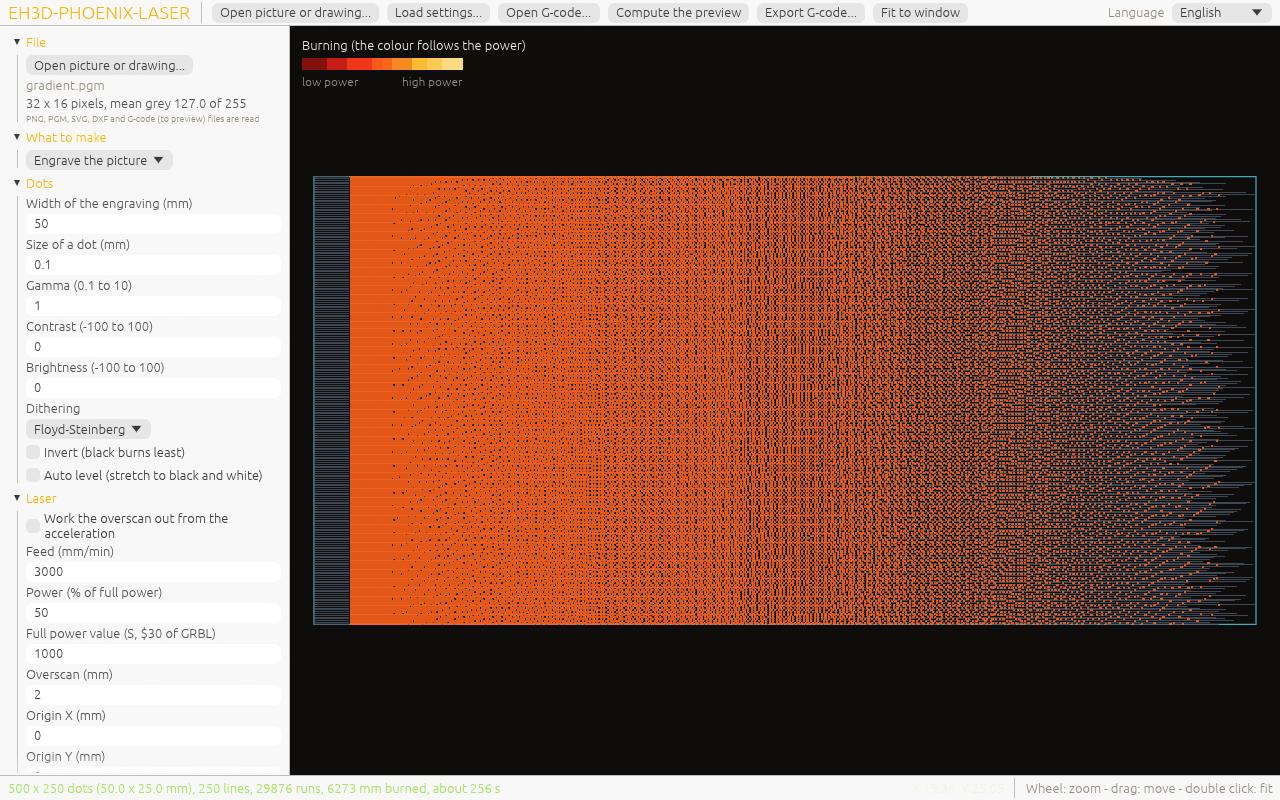
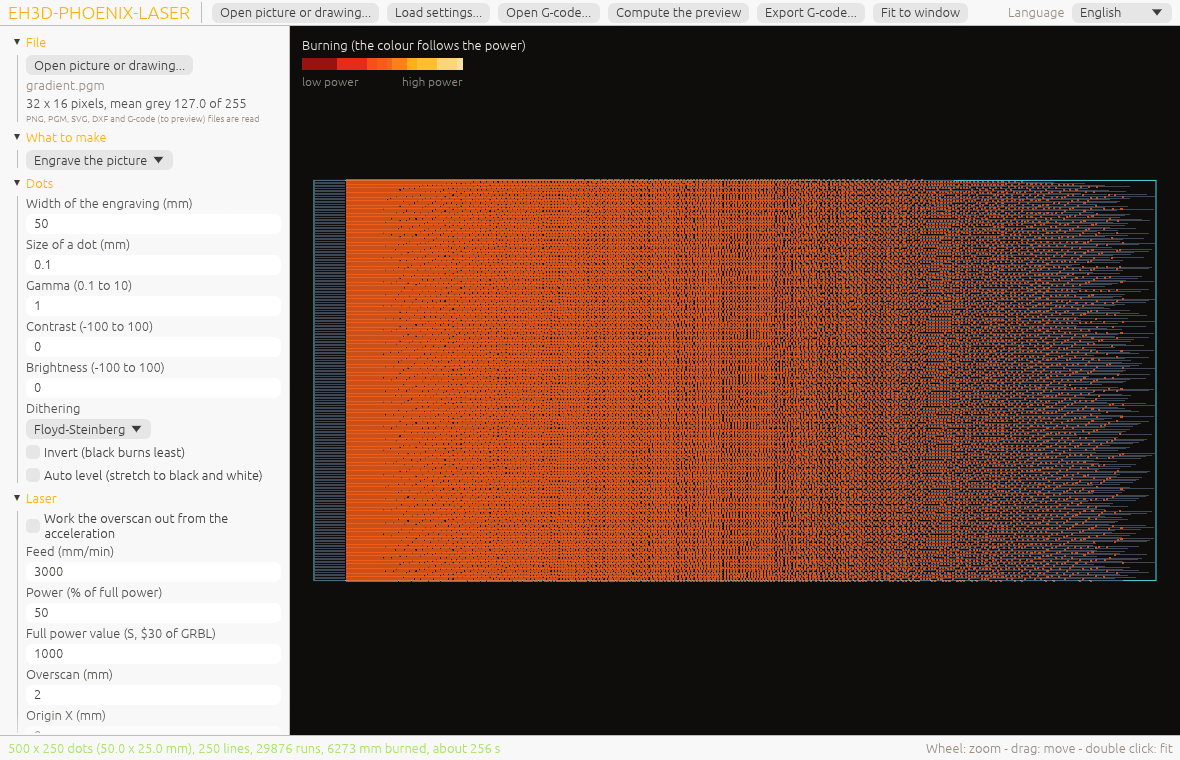
Take the pictures of the window again with the newest build

diff --git a/CHANGELOG.md b/CHANGELOG.md
@@ -4,6 +4,8 @@ All notable changes to this project are documented here.
 
 ## [Unreleased]
 
+- **The pictures of the window are taken again with the newest build:** the two pictures of `images/screens/` come from the Windows 64 bits program of the latest release.
+
 ## [0.1.4] - Server panel in the window, test fire and vector jobs, alignment from a camera picture, labels of the material editor and layer times with acceleration
 
 - **The time of each layer, with the head braking at the corners:** `phoenix-laser layers DRAWING --accel A` (1 to 100000 mm/s2) also prints, under each layer that is burnt, how long it takes with the head braking and speeding up at every corner at that acceleration and how much of that time the laser burns, and the total of all the layers. The whole drawing is planned once, as it would be written, the program is cut at the comment that opens each layer, and each piece is read by the preview of the program, so the burning times add up to the one of the whole program; each piece starts with the head at the origin, so the rapid move to its first contour is counted from there. Without `--accel` the output is the same as before.
